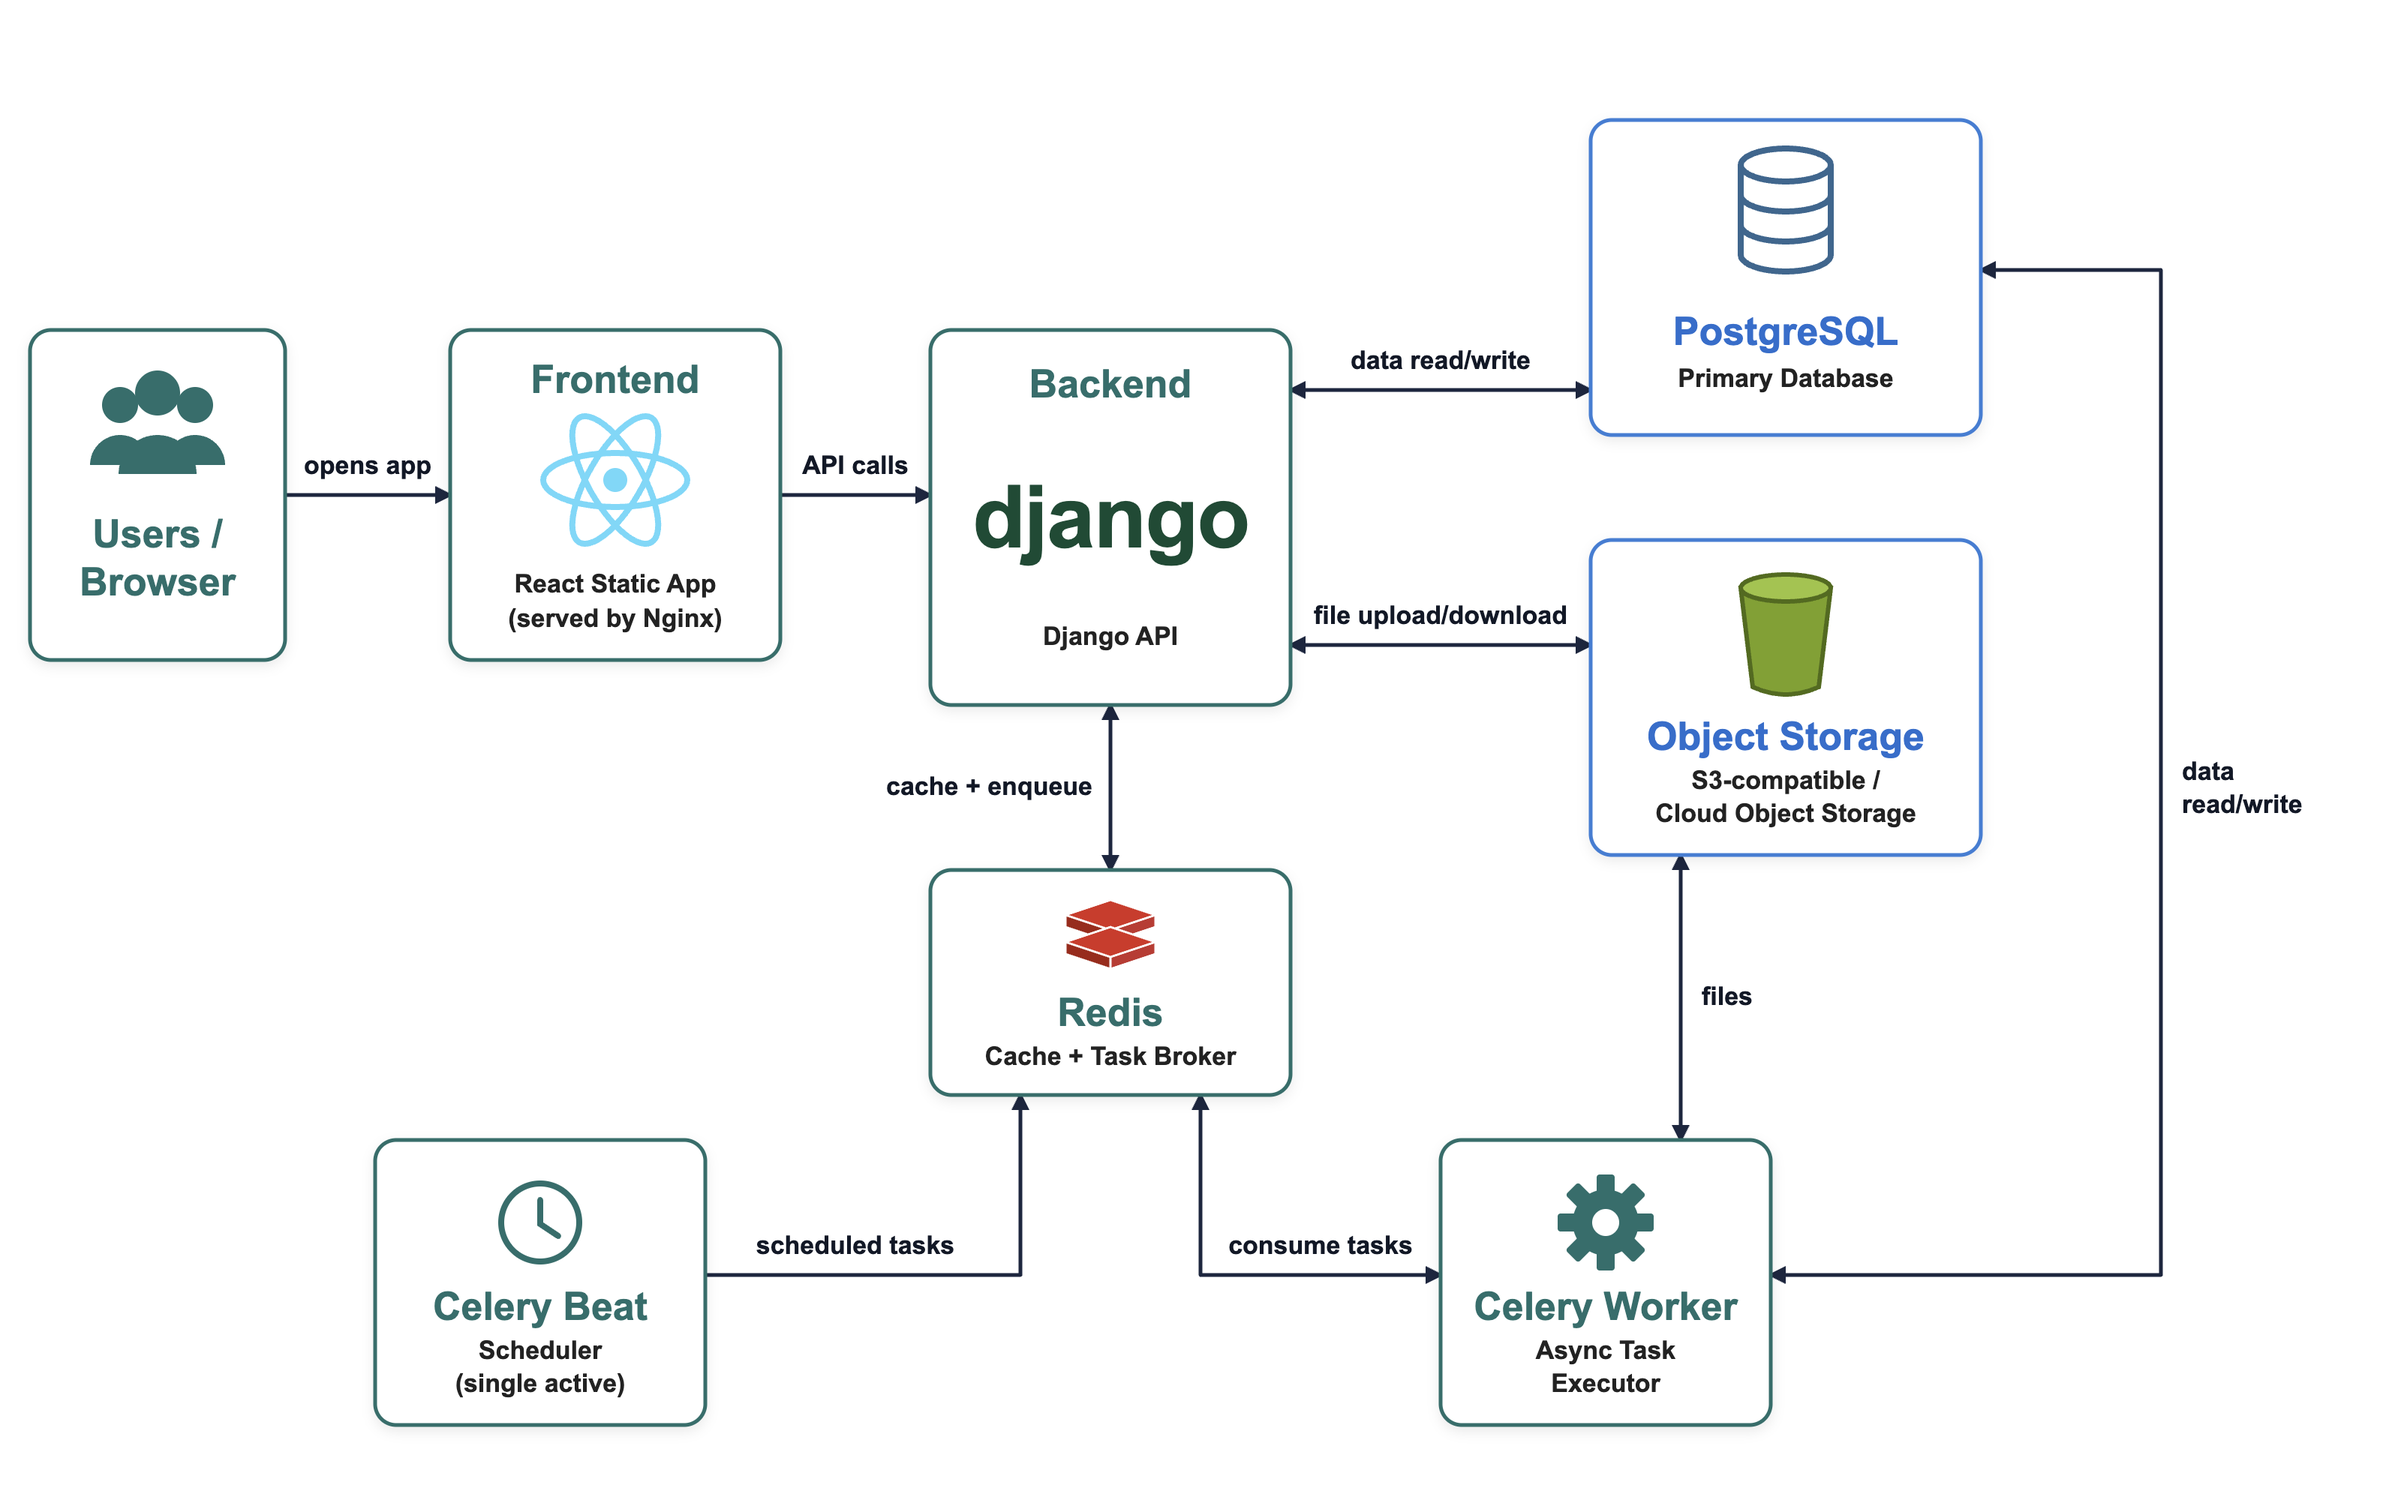
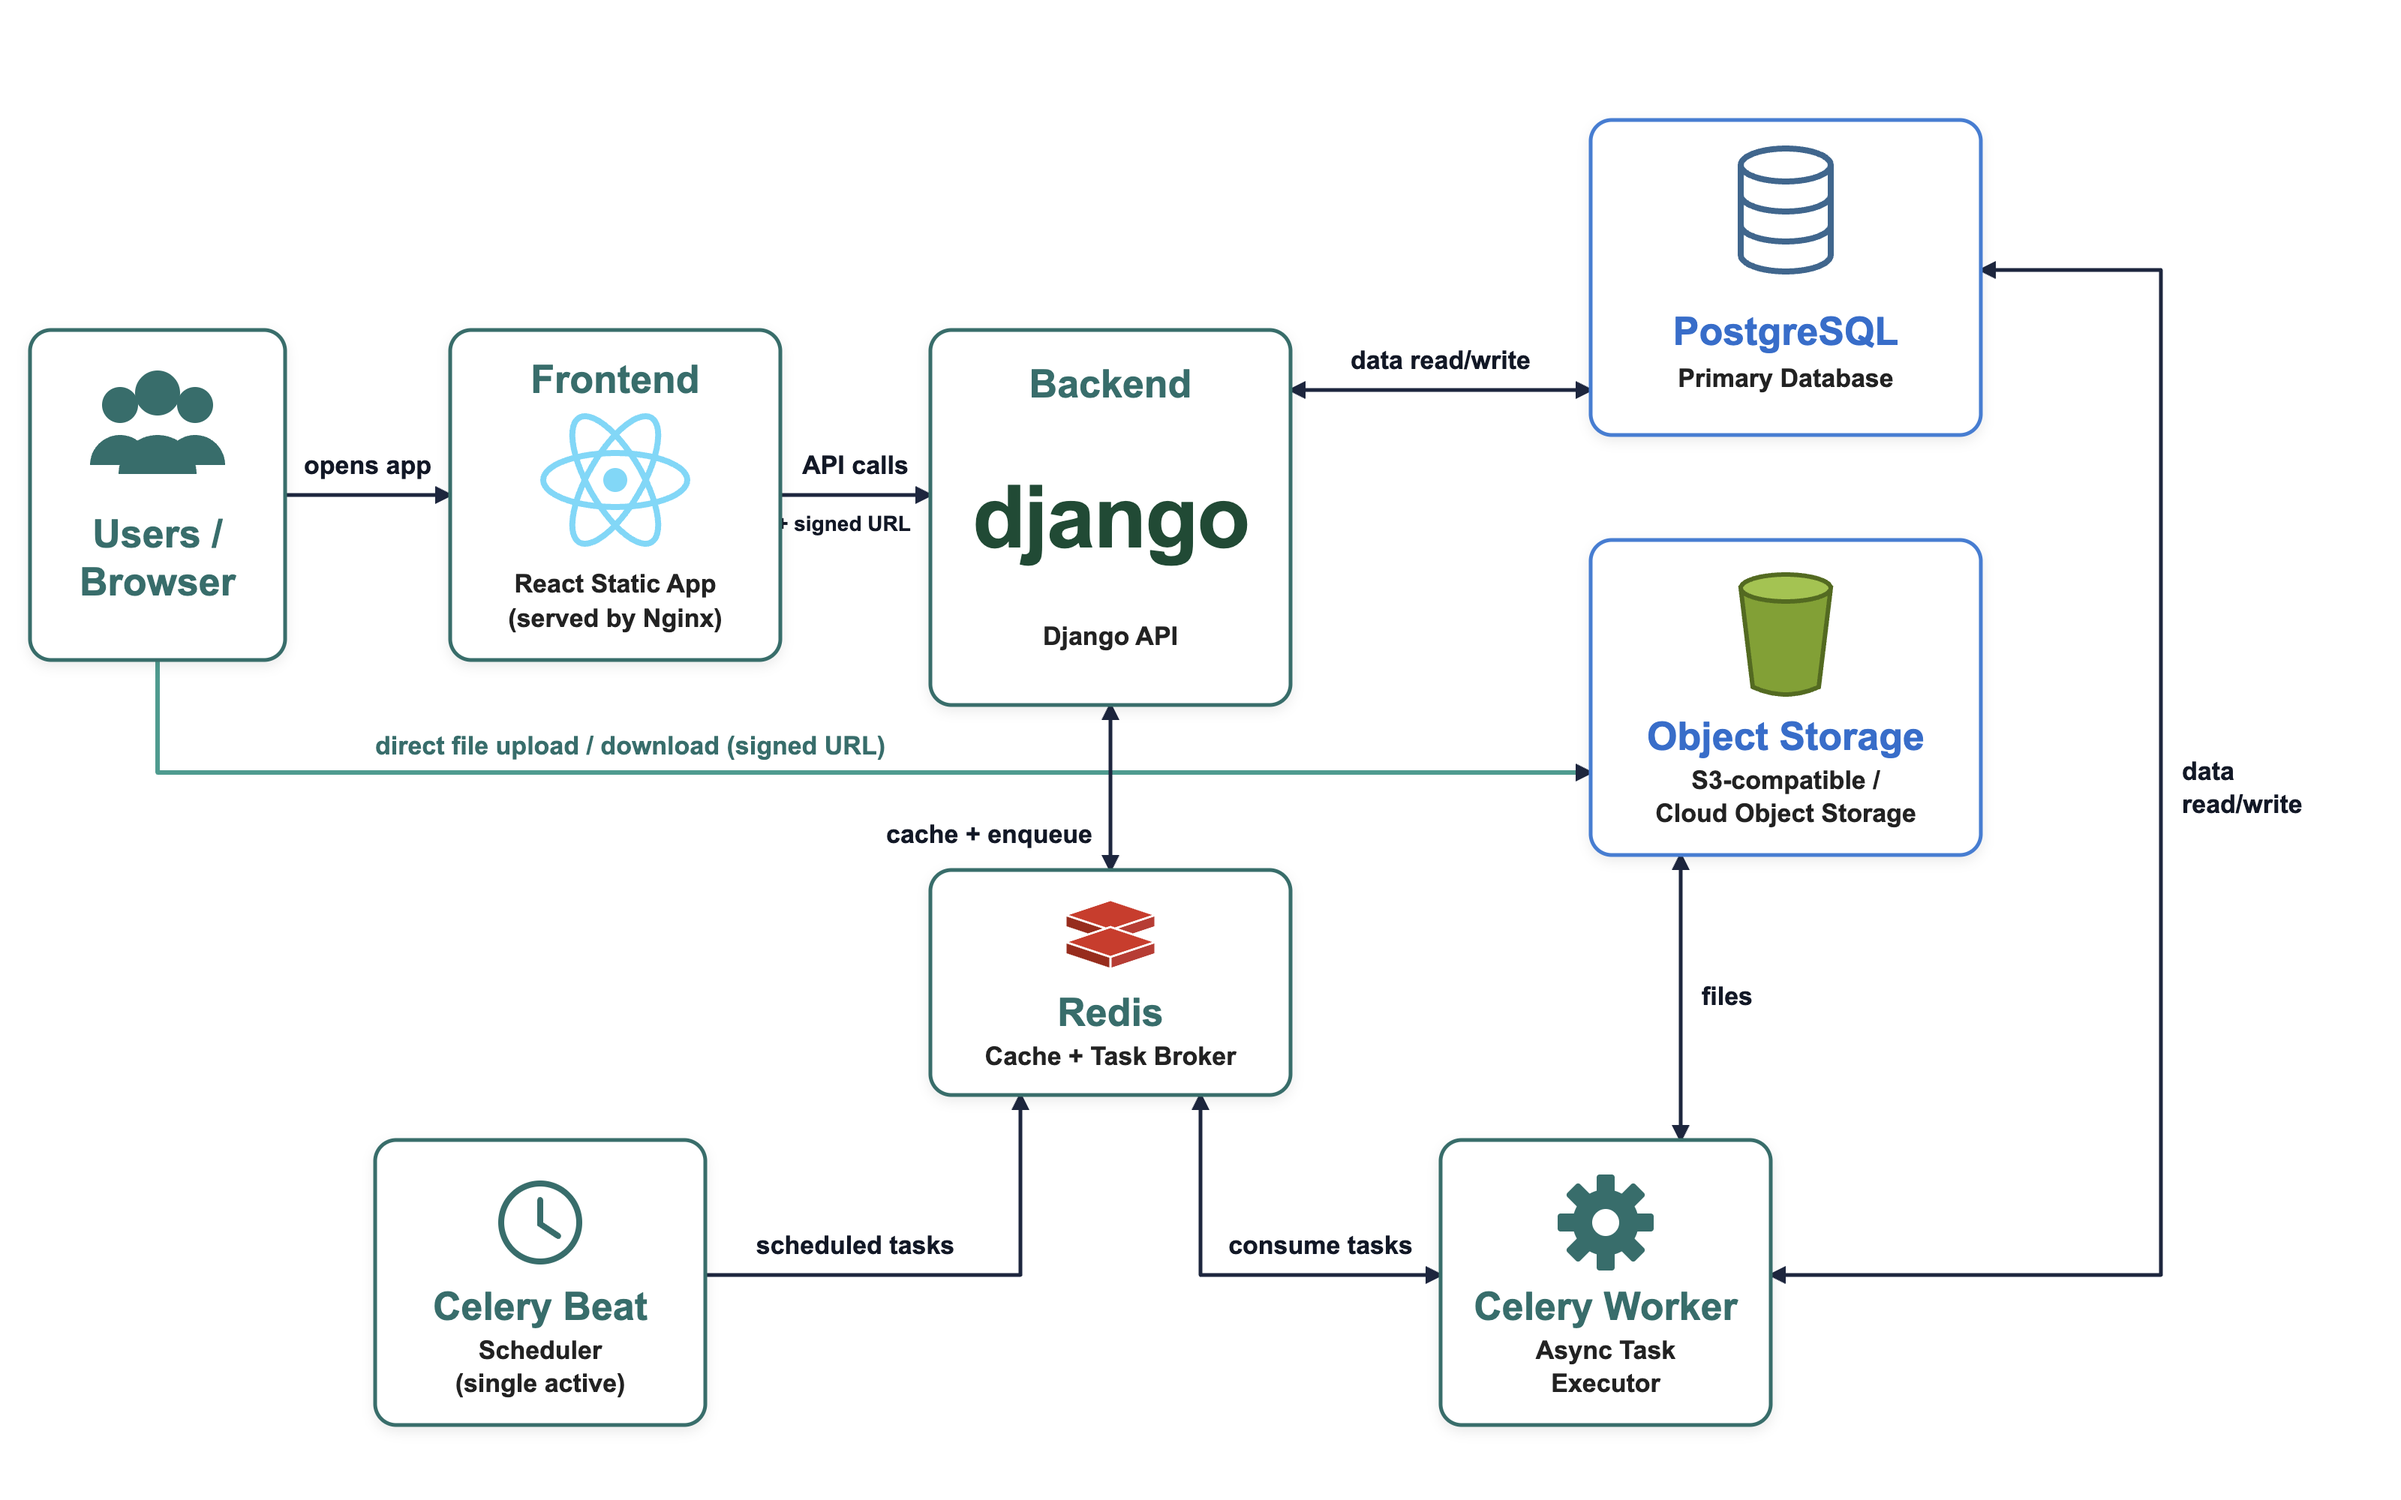
Diagram: browser uploads files directly to storage via pre-signed URL

diff --git a/docs/infra-session.html b/docs/infra-session.html
@@ -77,7 +77,7 @@
   <div class="kicker">Infra requirements · Tech stack</div>
   <h1>How the pieces talk to each other</h1>
   <div class="diagram"><img src="tech-stack-runtime-diagram-v5.svg" alt="CARE runtime diagram"></div>
-  <p class="src">Browser loads the React bundle from Nginx, then calls the Django API. API and workers share PostgreSQL, Redis and object storage. Beat is the single scheduler.</p>
+  <p class="src">Browser loads the React bundle from Nginx, then calls the Django API. For files, the API returns a pre-signed URL and the browser uploads/downloads directly to object storage — file bytes never pass through the backend. Celery workers read/write storage directly. Beat is the single scheduler.</p>
 </section>
 
 <!-- 3 -->
@@ -92,7 +92,7 @@
     <tr><td><b>Celery Beat</b></td><td>Same image, <code>/app/celery_beat.sh</code> — runs migrations + syncs, then Beat</td><td>Scheduler (1 replica)</td></tr>
     <tr><td><b>PostgreSQL</b></td><td>Cloud SQL <code>POSTGRES_17</code>, private IP, PITR, 7 backups</td><td>Primary data</td></tr>
     <tr><td><b>Redis</b></td><td><code>redis:8-alpine</code> in-cluster</td><td>Cache + Celery broker</td></tr>
-    <tr><td><b>Object storage</b></td><td>S3 API via boto3 → GCS in GCP, any S3-compatible store elsewhere</td><td>Files / uploads</td></tr>
+    <tr><td><b>Object storage</b></td><td>S3 API via boto3 → GCS in GCP, any S3-compatible store elsewhere. Backend only issues pre-signed PUT/GET URLs</td><td>Files: browser ↔ storage direct</td></tr>
   </table>
 </section>
 
